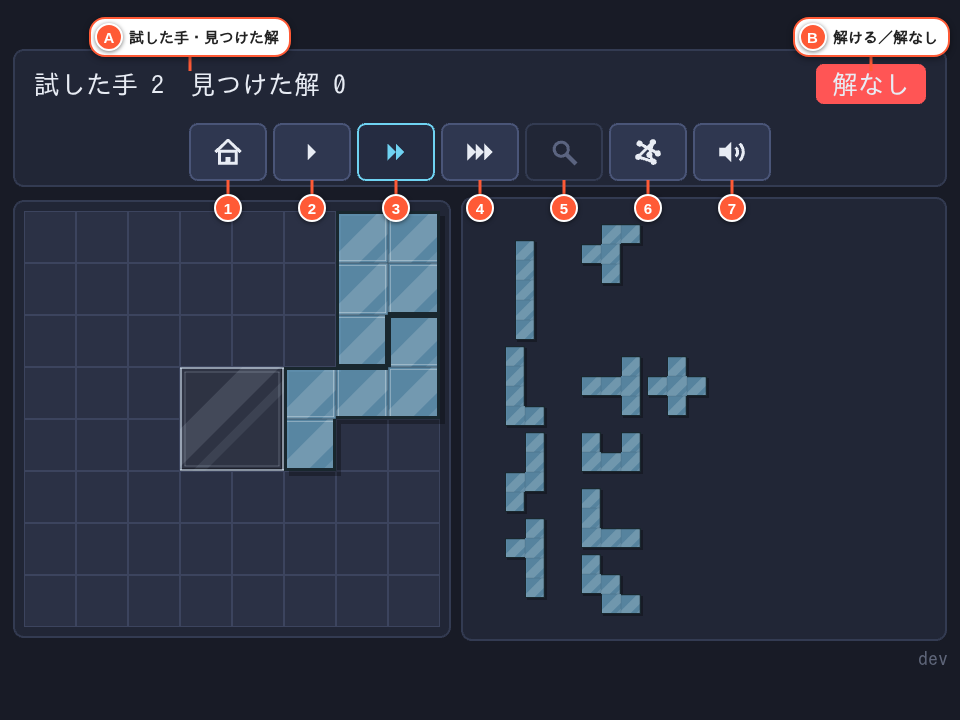
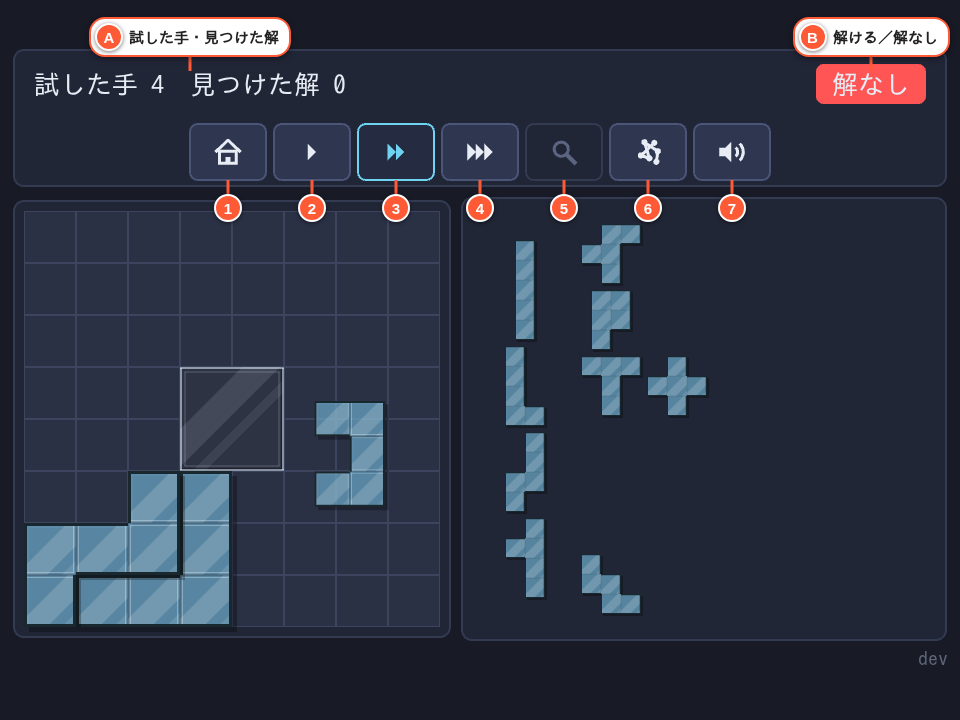
feat(demo): デモのランダムのアイコンを別の図案に替える（TODO-078）
Claude-Session: https://claude.ai/code/session_019Ssv8KfqsEowbawX9nJXaM

diff --git a/src/icons.js b/src/icons.js
@@ -34,8 +34,8 @@ function arrowHead(g, x, y, angle, length) {
 const NODE_RADIUS = 0.22;
 const TREE_NODES = [[0, -0.7], [-0.45, 0], [0.45, 0], [-0.75, 0.7], [-0.15, 0.7], [0.45, 0.7]];
 const TREE_EDGES = [[0, 1], [0, 2], [1, 3], [1, 4], [2, 5]];
-const SCATTER_NODES = [[-0.6, -0.6], [0.35, -0.7], [0.1, 0.2], [-0.7, 0.35], [0.7, 0.1], [0.4, 0.7]];
-const SCATTER_EDGES = [[0, 4], [1, 3], [3, 5], [5, 2], [2, 1]];
+const SCATTER_NODES = [[-0.5, 0.25], [0.45, -0.65], [-0.25, -0.7], [0.7, -0.05], [0.1, 0.45], [0.6, 0.7]];
+const SCATTER_EDGES = [[1, 0], [3, 5], [2, 3], [4, 2], [0, 4]];
 
 function graph(g, color, nodes, edges) {
   begin(g, color);
@@ -179,7 +179,7 @@ export const ICONS = {
   /**
    * デモの探し方（TODO-050・TODO-057・TODO-075）。深さ優先は根から枝分かれする
    * 木（決まった順で枝をたどる）、ランダムは散らした節を行き当たりばったりに
-   * 結んだもの（線が交差し、輪もできる）。2 つを並べたとき、整った枝分かれと
+   * 結んだもの（線が交差しながら一筆でつながる。TODO-078）。2 つを並べたとき、整った枝分かれと
    * 絡まった線で対になるようにしてある。
    */
   depthFirst(g, color) {

diff --git a/archives/todo/TODO-078. デモのランダムのアイコンを別の図案に替える.md b/archives/todo/TODO-078. デモのランダムのアイコンを別の図案に替える.md
@@ -1,0 +1,49 @@
+# TODO-078. デモのランダムのアイコンを別の図案に替える
+
+|      | main | 担当 |
+|------|------|------|
+| 見込み | Opus 5.5 / effort medium | main（実装）+ screens（Sonnet 5 / low） |
+| 実施 | Opus 5.5 / effort low | main（実装）+ screens（Sonnet 5 / low） |
+
+| 担当 | モデル | effort | output | cache_creation | 料金の割合 |
+|------|--------|--------|--------|----------------|-----------|
+| main | Opus 5.5 | low | 4,043 | 43,324 | 73% |
+| screens | Sonnet 5 | low | 994 | 47,467 | 27% |
+| 合計 |  |  | 5,037 | 90,791 | 概算 $1.1 |
+
+- 集計は `--since '2026-09-25 17:44:00'`。立ててから着手までに TODO-076・077 を挟んだため
+- 図案を 10 通りから選んだやり取りは、項目を立てる前のもので上の表に入っていない
+
+## きっかけ
+
+ランダムのアイコン（散らした節を結んだ図）が、深さ優先の木と見分けにくかった。
+利用者が 10 通りの候補から 3 番を選んだ（2026-09-25。比較画像は
+`~/tmp/playwright-mcp/random-icon-ten.png`）。節 6 つ・大きさは今と同じで、交差は 2 か所。
+
+## やったこと
+
+- `src/icons.js` の `SCATTER_NODES`・`SCATTER_EDGES` を選んだ図案に替えた
+- `ICONS.depthFirst` の JSDoc の「輪もできる」を「一筆でつながる」に直した
+  （新しい図案は 1-0-4-2-3-5 の一本道で、輪が無い）
+- `tools/capture.mjs` で撮り直し、`docs/images/demo.png`・`demo.gif` を差し替えた。
+  同時に撮り直された `game.png`・`play.png` はこのアイコンが映らない画面なので、
+  差分は撮り直しの揺れとみて元に戻した
+
+`docs/UsersGuide.md` の「線が絡まった点」は新しい図案にもそのまま合う。
+
+## 確かめたこと
+
+screens が 844×390 で撮って確かめた（[報告](../agents/TODO-078/screens-report.md)）。
+
+- 深さ優先（木）と並べて形がはっきり違い、見分けられる
+- HUD の実寸（節の直径は画面上で約 4px）でも 6 つの節と線が分かれて見える
+- `docs/images/demo.png` に新しい図案が映っている
+- コンソールのエラーは 0 件
+
+## 分担の振り返り
+
+- screens は 3 点とも問題なしで、食い違いは見つけなかった
+- 見込みとの差は main の effort だけ（セッションの設定が low だった）。担当は見込みどおり
+- 次に同じ規模（アイコンの座標だけを替える）なら同じ組み方でよいが、screens への依頼から
+  `demo.png` の確認を外し、main が撮り直しのあとで画像を 1 枚見れば足りる。
+  screens の分（$0.3）の多くはデモ画面へ入って撮る段取りで、見分けと縮小の 2 点に絞れる

diff --git a/archives/agents/TODO-078/screens-report.md b/archives/agents/TODO-078/screens-report.md
@@ -1,0 +1,23 @@
+# TODO-078 画面確認報告（screens）
+
+## 撮った画像
+- `/home/ytani/tmp/playwright-mcp/todo078-demo-full.png` — デモ画面全体、844x390、探し方=ランダム（初期状態）
+- `/home/ytani/tmp/playwright-mcp/todo078-demo-random-full.png` — 同、探し方=深さ優先に切り替え後
+- `/home/ytani/tmp/playwright-mcp/todo078-strategy-random.png` — 探し方ボタンの切り出し（ランダム、散らばりの図）
+- `/home/ytani/tmp/playwright-mcp/todo078-strategy-depth.png` — 同（深さ優先、木の図）
+
+## 観点ごとの結果
+
+1. **深さ優先とランダムを並べて見分けられるか**: 問題なし。木（分岐して下に広がる形）と
+   散らばり（星状に放射する形）で、形がはっきり異なり見分けられる。
+2. **0.5 倍相当の縮小で線・節が潰れないか**: 問題なし。実機の HUD ボタン上の実寸
+   （ブラウザの devicePixelRatio 込みで内部解像度の約 0.61 倍。ICON.size=28px →
+   節の直径は画面上で約 4px）で撮った切り出し画像でも、6 つの節と線がそれぞれ
+   分離して見え、塊には見えない。
+3. **`docs/images/demo.png` に新しい図案が映っているか**: 問題なし。ボタン 6
+   （番号バッジ付き）に散らばり型の新しい図案が映っている。旧図案
+   （[-0.6,-0.6] 起点の対称な形）ではない。
+
+## コンソール
+エラー 0、警告 4（すべて `GL Driver Message ... GPU stall due to ReadPixels` という
+WebGL/GPU ドライバ由来のパフォーマンス警告で、アイコンの変更とは無関係）。

diff --git a/archives/index.md b/archives/index.md
@@ -4,6 +4,7 @@
 作り直すので、手で直さない。やらないと決めたものは（対応しない）が付いている。
 進行中の項目は [TODO.md](../TODO.md) にある。
 
+- [TODO-078. デモのランダムのアイコンを別の図案に替える](todo/TODO-078.%20%E3%83%87%E3%83%A2%E3%81%AE%E3%83%A9%E3%83%B3%E3%83%80%E3%83%A0%E3%81%AE%E3%82%A2%E3%82%A4%E3%82%B3%E3%83%B3%E3%82%92%E5%88%A5%E3%81%AE%E5%9B%B3%E6%A1%88%E3%81%AB%E6%9B%BF%E3%81%88%E3%82%8B.md)
 - [TODO-077. デモのランダムで、どのピースも覆えない空きマスがあれば外す](todo/TODO-077.%20%E3%83%87%E3%83%A2%E3%81%AE%E3%83%A9%E3%83%B3%E3%83%80%E3%83%A0%E3%81%A7%E3%80%81%E3%81%A9%E3%81%AE%E3%83%94%E3%83%BC%E3%82%B9%E3%82%82%E8%A6%86%E3%81%88%E3%81%AA%E3%81%84%E7%A9%BA%E3%81%8D%E3%83%9E%E3%82%B9%E3%81%8C%E3%81%82%E3%82%8C%E3%81%B0%E5%A4%96%E3%81%99.md)
 - [TODO-076. ボタンを高く・幅を狭くし、タイトルへのボタンを左上に置く](todo/TODO-076.%20%E3%83%9C%E3%82%BF%E3%83%B3%E3%82%92%E9%AB%98%E3%81%8F%E3%83%BB%E5%B9%85%E3%82%92%E7%8B%AD%E3%81%8F%E3%81%97%E3%80%81%E3%82%BF%E3%82%A4%E3%83%88%E3%83%AB%E3%81%B8%E3%81%AE%E3%83%9C%E3%82%BF%E3%83%B3%E3%82%92%E5%B7%A6%E4%B8%8A%E3%81%AB%E7%BD%AE%E3%81%8F.md)
 - [TODO-075. デモの既定の探し方をランダムにし、探し方のアイコンを描き直す](todo/TODO-075.%20%E3%83%87%E3%83%A2%E3%81%AE%E6%97%A2%E5%AE%9A%E3%81%AE%E6%8E%A2%E3%81%97%E6%96%B9%E3%82%92%E3%83%A9%E3%83%B3%E3%83%80%E3%83%A0%E3%81%AB%E3%81%97%E3%80%81%E6%8E%A2%E3%81%97%E6%96%B9%E3%81%AE%E3%82%A2%E3%82%A4%E3%82%B3%E3%83%B3%E3%82%92%E6%8F%8F%E3%81%8D%E7%9B%B4%E3%81%99.md)

diff --git a/TODO.md b/TODO.md
@@ -1,33 +1,8 @@
 # TODO
 
-**残っている項目: TODO-078。** これまでに 77 件を決着させた。
+**残っている項目: なし。** これまでに 78 件を決着させた。
 新しく足すときは「完了済み」の上に節を作る。
 **新規項目の番号は `TODO-079` から。**
-
----
-
-## TODO-078. デモのランダムのアイコンを別の図案に替える
-
-|      | main | 担当 |
-|------|------|------|
-| 見込み | Opus 5.5 / effort medium | main（実装）+ screens（Sonnet 5 / low） |
-
-- [ ] `src/icons.js` の `SCATTER_NODES`・`SCATTER_EDGES` を下の図案に替える
-- [ ] `ICONS.depthFirst` の JSDoc の「輪もできる」を直す（この図案は輪が無く、一筆でつながる）
-- [ ] `node tools/capture.mjs` で `docs/images/` のデモのキャプチャを撮り直す
-
-利用者が 10 通りの候補から 3 番を選んだ（2026-09-25。比較画像は
-`~/tmp/playwright-mcp/random-icon-ten.png`）。節 6 つ・大きさは今と同じで、交差は 2 か所。
-線が関係ない節の上を通らないことは座標から計算して確かめてある。
-
-```js
-const SCATTER_NODES = [[-0.5, 0.25], [0.45, -0.65], [-0.25, -0.7], [0.7, -0.05], [0.1, 0.45], [0.6, 0.7]];
-const SCATTER_EDGES = [[1, 0], [3, 5], [2, 3], [4, 2], [0, 4]];
-```
-
-`docs/UsersGuide.md` の「線が絡まった点」はそのままで合う。
-形だけの変更で挙動は変わらないので reviewer は入れない。screens には
-深さ優先と並べて見分けられるか、0.5 倍で潰れないかを見させる。
 
 ---
 

diff --git a/archives/agents/TODO-078/README.md b/archives/agents/TODO-078/README.md
@@ -1,0 +1,8 @@
+# TODO-078 の分担
+
+- main: `src/icons.js` の図案と JSDoc の差し替え、`tools/capture.mjs` での撮り直し
+- screens（Sonnet 5 / low）: 深さ優先と並べて見分けられるか、縮小で潰れないか、
+  `docs/images/demo.png` に新しい図案が映っているか。報告は [screens-report.md](screens-report.md)
+
+形だけの変更で挙動は変わらないので reviewer は入れなかった。画像を作る項目なので、
+映っているものの確認は main と分けた。
